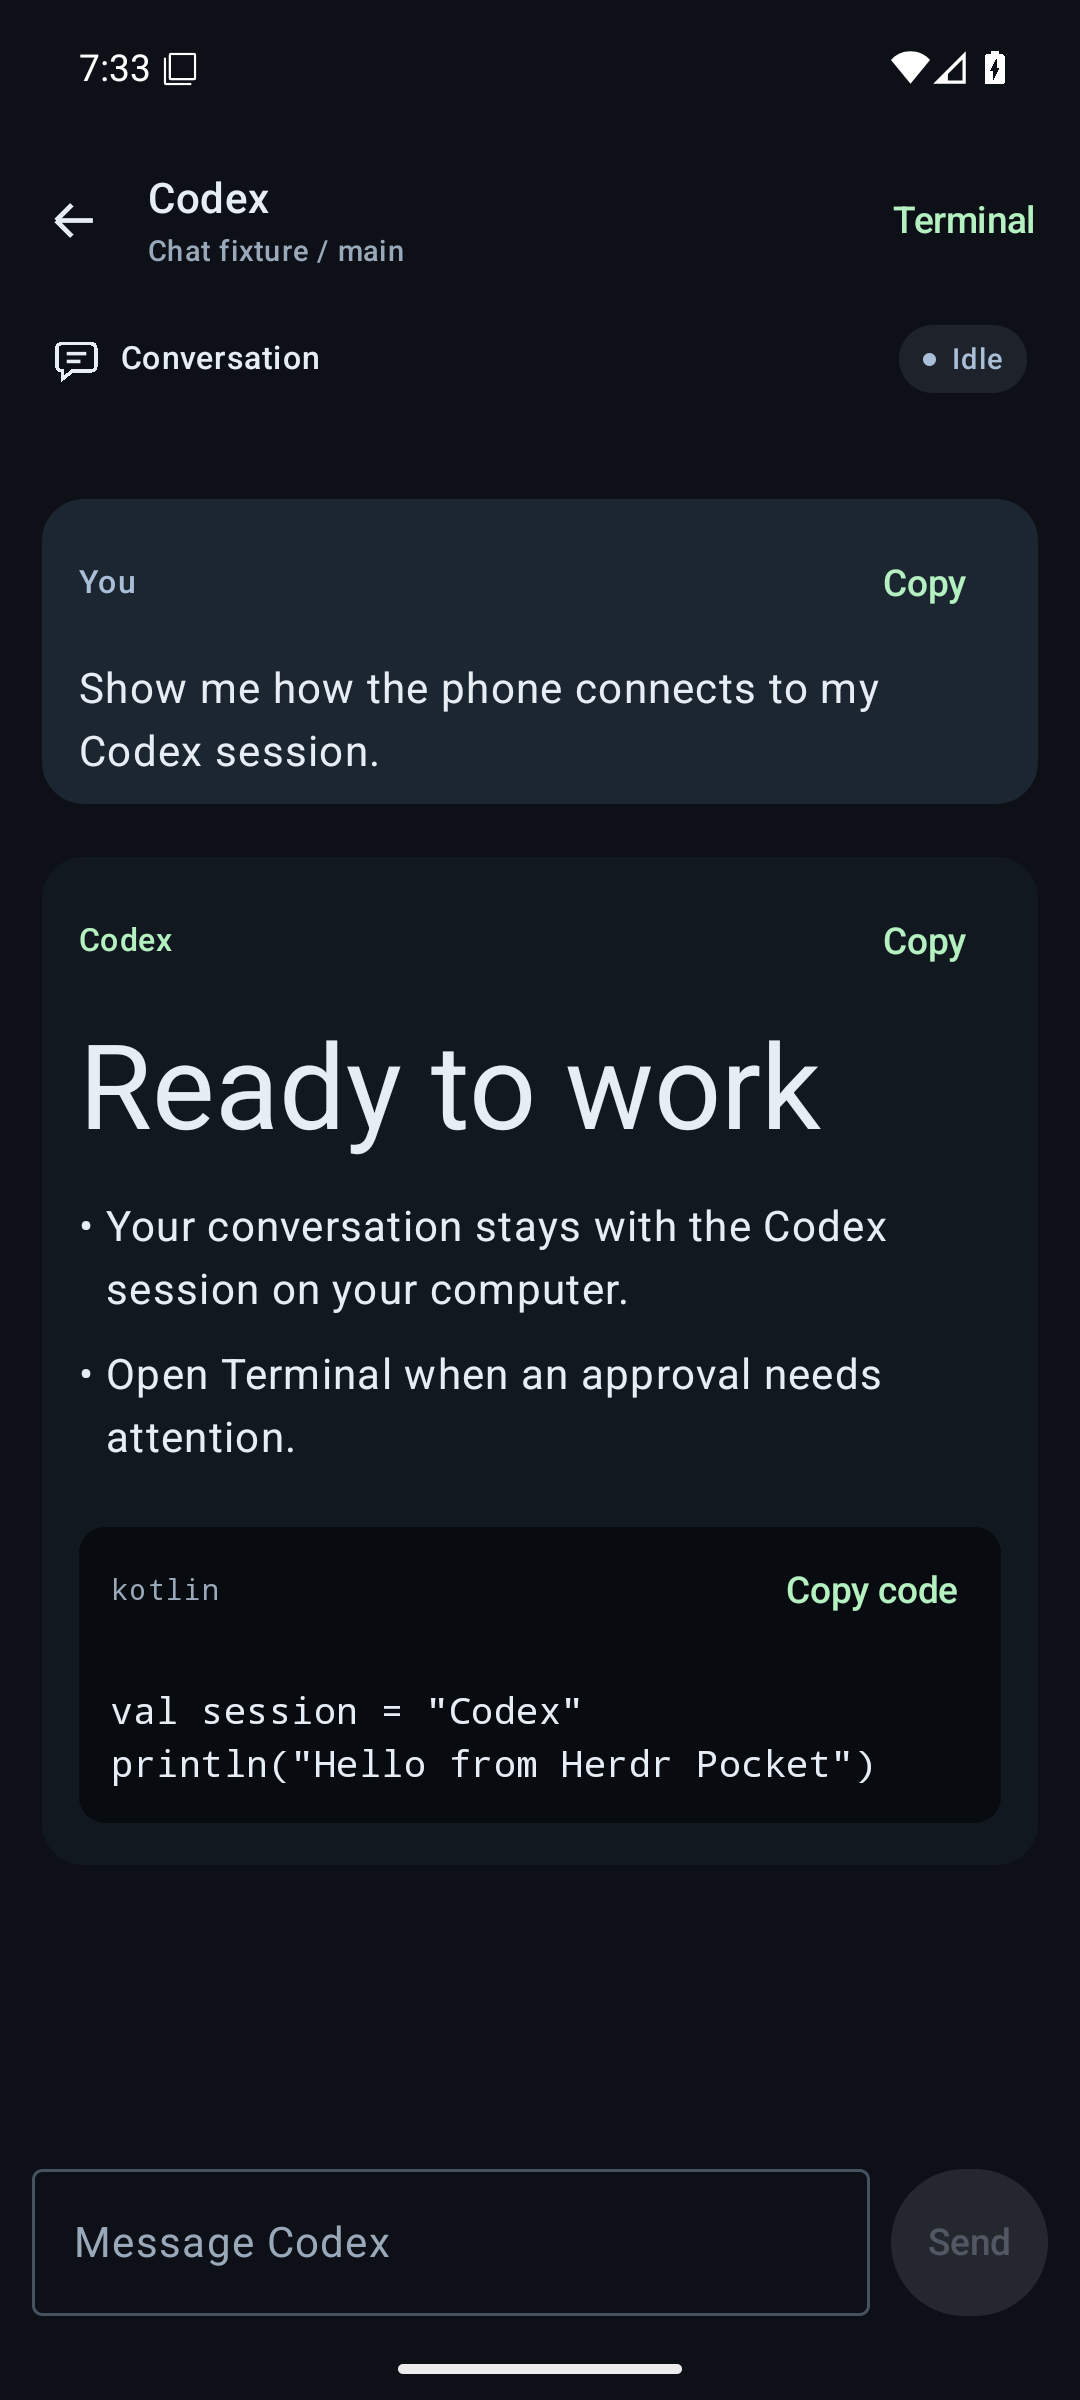
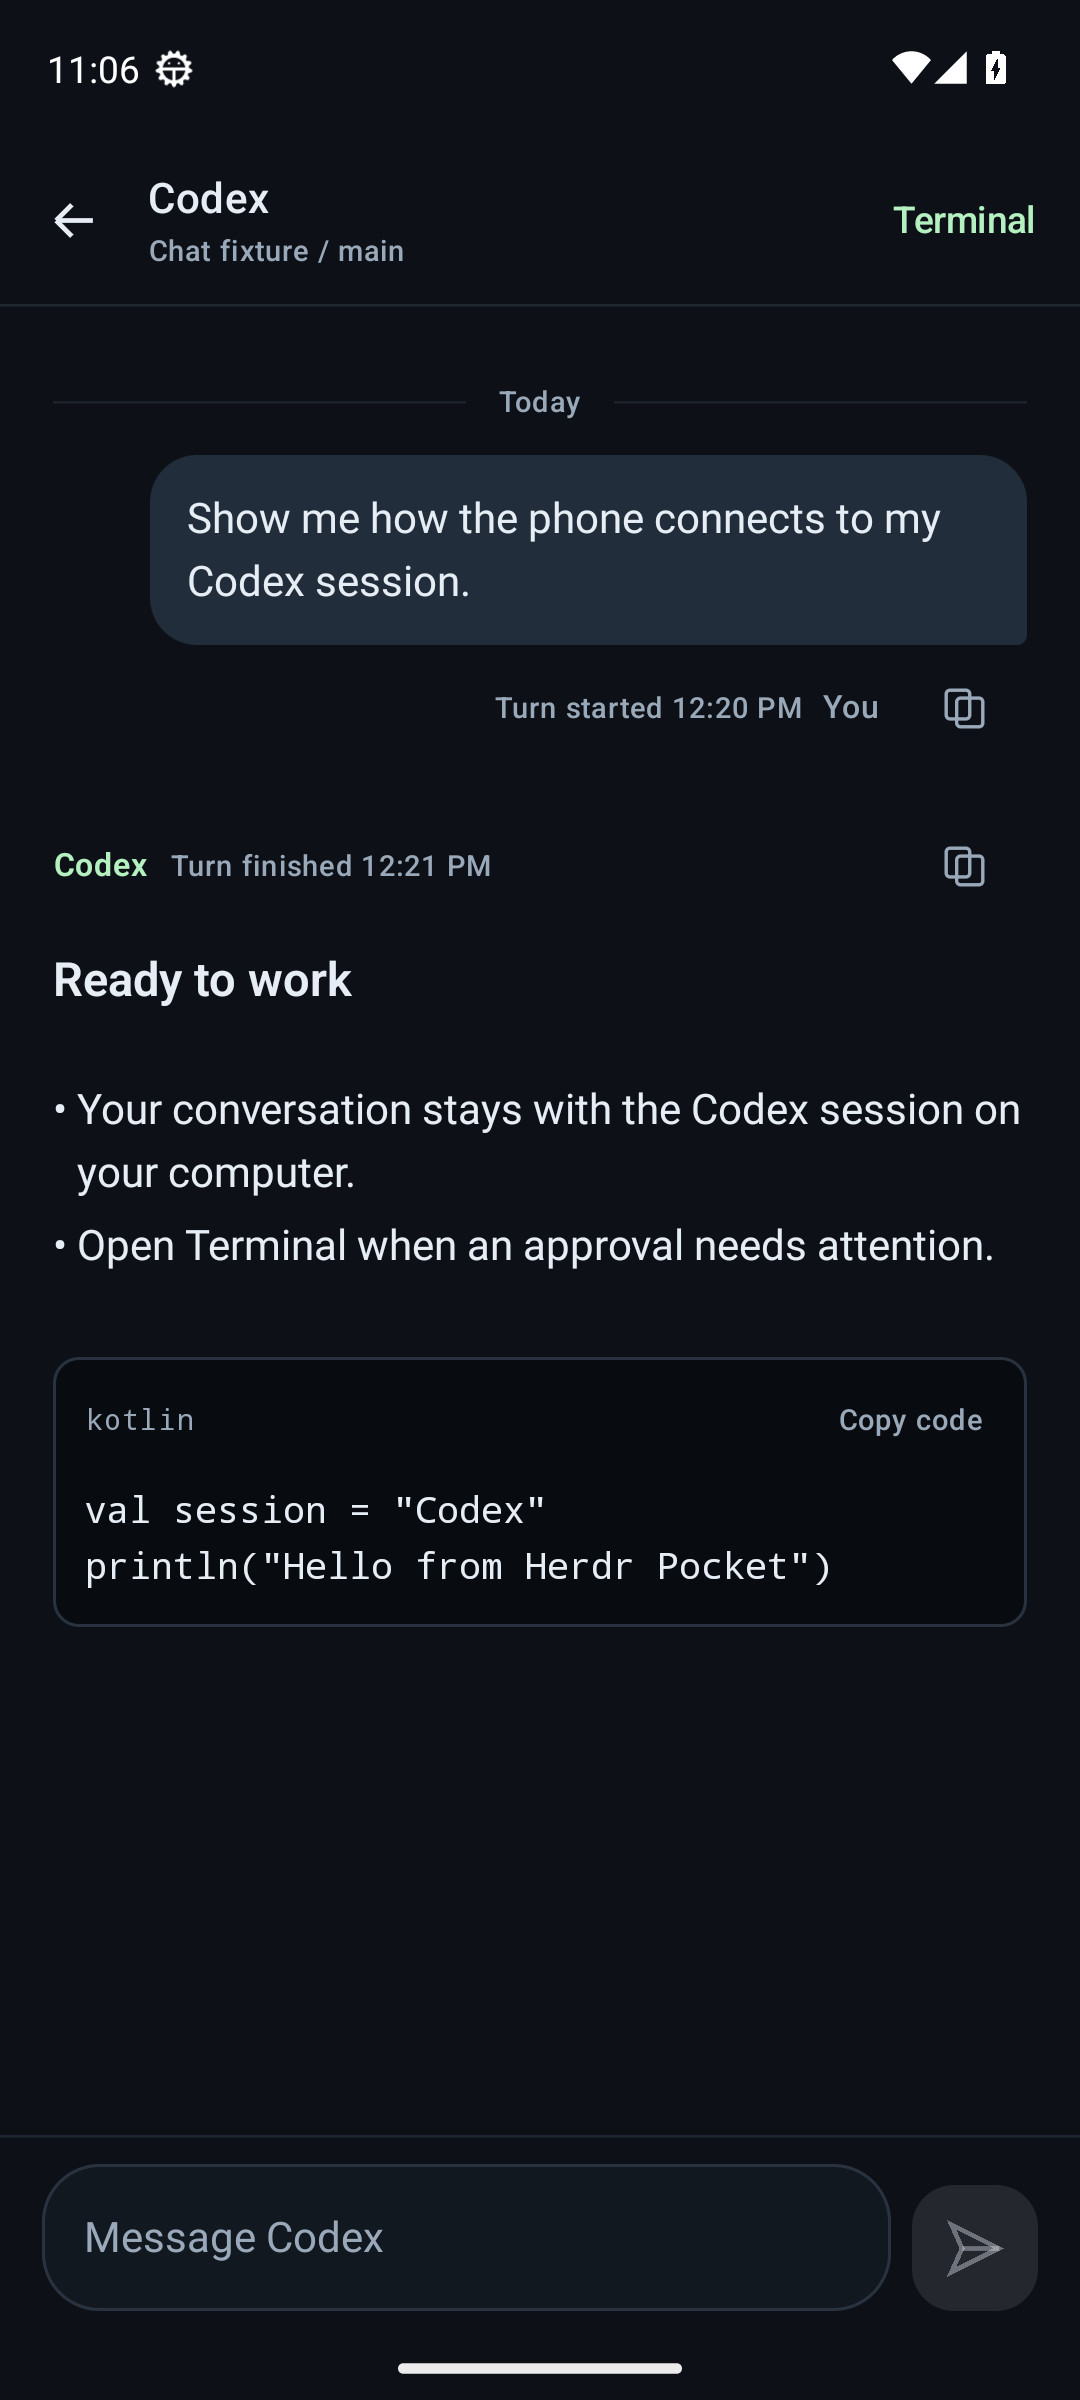
Record Android 13 validation and compare cleared draft text without spans

diff --git a/app/src/androidTest/java/dev/herdr/android/ui/TerminalControlsTest.kt b/app/src/androidTest/java/dev/herdr/android/ui/TerminalControlsTest.kt
@@ -18,7 +18,6 @@ import androidx.compose.ui.test.performClick
 import androidx.compose.ui.test.performTextInput
 import androidx.test.ext.junit.runners.AndroidJUnit4
 import androidx.compose.ui.semantics.SemanticsProperties
-import androidx.compose.ui.text.AnnotatedString
 import org.connectbot.terminal.Terminal
 import org.connectbot.terminal.TerminalEmulatorFactory
 import org.junit.Assert.assertEquals
@@ -55,7 +54,9 @@ class TerminalControlsTest {
         compose.onNodeWithTag("command-draft").assertTextEquals("Explain this repository")
         compose.onNodeWithTag("send-command").performClick()
         compose.runOnIdle { inputRevision++; sending = false }
-        compose.onNodeWithTag("command-draft").assert(SemanticsMatcher.expectValue(SemanticsProperties.EditableText, AnnotatedString("")))
+        compose.onNodeWithTag("command-draft").assert(SemanticsMatcher("The acknowledged command draft is empty") { node ->
+            SemanticsProperties.EditableText in node.config && node.config[SemanticsProperties.EditableText].text.isEmpty()
+        })
     }
 
     @Test

diff --git a/docs/validation.md b/docs/validation.md
@@ -1,54 +1,62 @@
-# Preview 0.4.0 validation
+# Preview 0.5.0 validation
 
-Validated on 2026-10-09 with unmodified Herdr 0.9.3 and Codex 0.162.0. Live Herdr checks use UUID-named sessions and temporary workspaces. Codex checks use disposable provider homes with synthetic conversations. Existing user panes were never given input, restarted, or read for conversation contents.
+Validated on 9 October 2026. This release fixes the reported Android 13 TLS shutdown crash and disabled Codex Send, and revises the native chat layout.
 
 ## Results
 
 | Check | Result | Coverage |
 | --- | --- | --- |
-| Android JVM | 107 passed | Existing chat/pairing coverage; strict snapshot identities/references; native key encoding; bounded ordered input, Unicode fragments, stale target rejection; command memory; history bounds; redacted diagnostics |
-| Android lint/build | Zero errors, 18 warnings | Minimum API 26, target API 37, native Kotlin/Compose; debug app and device test APKs |
-| Bridge offline | 282 passed, 3 optional live cases skipped | Authentication, pairing, chat, raw terminal control characters, strict pane targets, bounded real history, hostname/version readiness, management downloads/checksums, multi-instance updates, rollback, safe uninstall and purge |
-| Real Codex reader | 2 passed | Legacy/indexed saved histories and literal prompt routing without model turns |
-| Stock Herdr | 1 passed | Owned shell/observer, raw Ctrl+U and Enter execution, discarded abandoned command, real recent output |
-| Android device | 54 passed | JNI/Keystore/gallery/chat plus real native input connections, composition/key-row order, modifiers, stale connections, pinch/pan/copy, paste review, drafts/snippets, history search/copy/lifecycle, server search and full pairing transitions; three optional cases ran separately against an owned stock Herdr fixture |
-| Linux frozen package | Passed | Authenticated API, raw keys, real history envelope, Codex adapter, one-use pairing, revocation, QR helpers, version readiness and licenses |
-| Frozen management roundtrip | Passed | Checksummed staged 0.3.1→0.4.0 upgrade, installed binary execution, uninstall keeping credentials, explicit purge; only temporary files and simulated Tailscale |
-| APK packaging | Passed | Signature, same certificate, 16 KiB ZIP alignment and all eight 64-bit ELF libraries |
+| Android JVM | 118 passed | Client retirement, detached cleanup, late pooled socket return, conversation protocol, timestamps/provenance, pagination readiness, existing pairing/terminal/state tests |
+| Android lint | 0 errors, 19 warnings | Debug app, tests and dependencies |
+| Bridge offline | 308 passed | Stock Herdr manual-agent readiness, guarded submission, timestamps, pairing, authentication, terminal and host management |
+| Actual Codex 0.162 | 4 passed | Isolated legacy/paginated saved histories, official turn times present/absent, append/rollback, single mocked Herdr submission; no model calls |
+| Actual Herdr 0.9.3 | 1 passed | Owned isolated session only |
+| Android 13 device | 62 passed | Full instrumentation, including five real Conscrypt TLS regressions, chat dates/layout/working state, native terminal and three live fixture cases |
+| Frozen Linux package | Passed | Authenticated API, Codex chat, single-use pairing/revocation, QR helpers and licenses |
+| Linux/macOS CI packages | Passed | Linux x86_64, macOS arm64 and macOS x86_64 builds and packaged smoke checks |
+| Installed 005 companion | Passed | Checksummed 0.4.0→0.5.0 update; authenticated readiness; configuration and paired-device data byte-identical |
 
-These are **446 distinct automated passing cases**, plus packaged-runtime checks. Service operations in the management regression suite use temporary definitions and mocked service state; real macOS login behavior is not established by those checks.
+These are **493 distinct automated passing cases**, plus packaged-runtime and installed-host checks. The offline bridge run skips the five optional real-runtime cases; those were run separately. The final complete Android suite ran directly through AndroidJUnitRunner with an owned live fixture, and reported `OK (62 tests)` in 91 seconds. No existing user agent received test input.
 
-The ordinary device suite passed 51 cases and skipped the three fixture-dependent cases. Those three then passed separately against a real companion and an isolated stock Herdr session: host-generated QR decoding, manual connection and command delivery, and one-use invitation exchange followed by command delivery. The complete native workflow verifies that committing an IME word followed by the visible Enter button produces ordered requests to the same pane. Remote device-status queries produce no writes. Another case searches across workspaces and copies the selected non-Codex pane's output without commands or chat polling. Selection controls remain within the phone viewport; appearance changes preserve remote dimensions.
+The initial Gradle device run reported three missing-fixture JUnit assumptions as failures, plus an older empty-draft assertion that compared `AnnotatedString` presentation annotations. The assertion now checks the actual draft text. The complete fixture-equipped rerun passes. Ordinary Gradle device commands explicitly exclude the opt-in live class; see the repeat commands below.
 
-## Reported connection crash
+## Reported failures
 
-The published 0.3.0 APK completed two full post-confirmation flows against synthetic v0.2/v0.3 companion responses: invitation exchange, encrypted profile persistence, authenticated health/snapshot, and a dashboard with multiple workspaces and mixed agent states. Normal upgrade responses did not reproduce a crash.
+A real idle HTTPS socket on the API 33 emulator reproduces `NetworkOnMainThreadException` when the original synchronous `ConnectionPool.evictAll()` runs on Android's main thread. The fixed Herdr and pairing clients close those sockets from detached IO workers; the real `HerdrViewModel.pairServer` replacement path and in-flight cancellation pass with Android's network guard enabled. Retirement rejects new calls immediately, remains idempotent, and evicts connections returned after initial cleanup. Production certificate validation is unchanged. This establishes the supplied crash mechanism; it does not depend on reproducing the user's private server state.
 
-A separate duplicate-pane-ID fixture **did reproduce a post-connect crash in that published APK**, with Compose reporting an already-used list key. Version 0.4 rejects duplicate/blank IDs and inconsistent references before rendering, producing a controlled connection error while preserving the paired profile. The corresponding full app case passes. This demonstrates a concrete fixed crash condition; it does not prove the user's other server returned duplicate IDs.
+Stock Herdr 0.9.3 omits its managed-only `interactive_ready` flag for ordinary manually launched Codex. Requiring that flag for every pane kept Send disabled indefinitely. Verified unnamed canonical Codex sessions now accept messages when idle/done; named managed sessions still require explicit readiness. Working, blocked, starting, malformed, stale, or uncertain states remain guarded, with a controlled explanation. Submission still uses Herdr's foreground-runtime validation and never retries automatically.
 
-Snapshot parsing runs off the UI thread and rejects excessive JSON nesting. Private bounded diagnostics retain exception class names and sanitized stack frames, excluding messages, URLs, tokens, and invitation codes. Sanitizer and actual owner-private file checks pass; Copy/Delete is explicit and nothing uploads automatically. No intentional fatal process crash is used to test recording.
+## Chat review
+
+The [new screenshot](screenshots/chat.png) contains only synthetic fixture text. It was inspected after a full activity navigation test: compact user bubbles, assistant text on the canvas, restrained Markdown headings, readable code, accessible copy controls and an anchored composer. Working is a static caption without an animated banner.
+
+Codex 0.162 exposes saved turn start/completion times rather than exact item times. The app labels that provenance explicitly and respects the phone's time zone and 12/24-hour format. Histories without official turn times omit dates rather than borrowing file/item timestamps or the current clock. Both cases were verified against the actual app-server in isolated temporary Codex homes.
+
+Design references: [official Android JetChat](https://github.com/android/compose-samples/blob/main/Jetchat/app/src/main/java/com/example/compose/jetchat/conversation/Conversation.kt), [Material typography](https://m3.material.io/styles/typography/applying-type), and [Compose accessibility](https://developer.android.com/develop/ui/compose/accessibility/api-defaults).
 
 ## Environment and artifact
 
-- JDK 17; Kotlin 2.4.20, Gradle 9.6.0, Android Gradle Plugin 9.4.0, Android SDK 37.0/build tools 36.0.0.
-- Pixel 7 emulator, Android 16/API 36, x86_64, hardware virtualization.
-- ConnectBot Terminal 0.3.11, CameraX 1.6.2, ZXing 3.5.4; native Compose without a WebView.
-- Linux x86_64 package: glibc 2.34, portable Python 3.11.17, PyInstaller 6.22.3; no separate Python installation required.
+- Pixel 7 emulator, Android 13/API 33, x86_64, hardware virtualization.
+- JDK 17, Kotlin 2.4.20, Gradle 9.6.0, Android Gradle Plugin 9.4.0; compile/target SDK 37.0 and build tools 36.0.0; minimum Android API 26.
+- Linux x86_64 package: glibc 2.34, portable Python 3.11.17, PyInstaller 6.22.3.
+- APK: **34,420,320 bytes**, version code **6**, version name **0.5.0**; signature and 16 KiB ZIP alignment checks passed.
 
-APK: **34,678,807 bytes**, version code **5**, version name **0.4.0**. The signing certificate matches previous previews, so installation preserves phone profiles. SHA-256:
+APK SHA-256:
 
 ```text
[2 lines of base64/hex data omitted]
 ```
 
-[Native terminal](screenshots/terminal.png) · [Gallery pairing](screenshots/gallery.png) · [Codex chat](screenshots/chat.png)
[1 lines of base64/hex data omitted]
 
-The new terminal screenshot contains only a synthetic local fixture. Gallery import was also manually validated through the actual Android Photo Picker in 0.3.1; that path retains its permission-free local decoding/review flow. A camera preview startup/first-frame/Back check worked on this emulator. Physical camera/keyboard behavior and the reported other phone's exact crash remain unverified.
+Production payloads were built from `486cb9f6182292c50e2c95dbe543a59d3ac789d4`. [Android/bridge CI](https://github.com/nabil-2/herdr-android/actions/runs/37908676899) and [host package CI](https://github.com/nabil-2/herdr-android/actions/runs/37908676928) passed for that source. Later edits only correct the device test assertion, update its invocation documentation, and record these results/screenshots.
 
 ## Repeat
 
 ```sh
 ./gradlew --no-daemon :app:testDebugUnitTest :app:lintDebug :app:assembleDebug :app:assembleDebugAndroidTest
+./gradlew :app:connectedDebugAndroidTest \
+  -Pandroid.testInstrumentationRunnerArguments.notClass=dev.herdr.android.LiveBridgeDeviceTest
 bridge/.venv/bin/python -m pytest bridge/tests -q
 HERDR_INTEGRATION=1 bridge/.venv/bin/python -m pytest bridge/tests/test_live_herdr.py -q
 CODEX_INTEGRATION=1 bridge/.venv/bin/python -m pytest bridge/tests/test_live_codex_chat.py -q
@@ -56,12 +64,8 @@ bridge/.venv/bin/python scripts/build_host.py
 bridge/.venv/bin/python scripts/smoke_host_package.py artifacts/host/herdr-pocket-linux-x86_64
 ```
 
-Run ordinary instrumentation without live arguments, or follow the [isolated Android fixture](../bridge/README.md#live-android-device-fixture) to include real one-use pairing and commands in an owned stock Herdr shell. Build first, start the fixture immediately before testing, and clean up its reverse mapping/process afterward. Invitations expire after five minutes.
-
-GitHub [Android/bridge checks](https://github.com/nabil-2/herdr-android/actions/runs/37902745071) and [host packaging](https://github.com/nabil-2/herdr-android/actions/runs/37902092639) validate the source and package Linux/macOS targets. Payloads were built from production source `22828bc51d89d5503417856f8268421372e74110`; subsequent changes only make a test independent of installed Tailscale and update this validation record. Platform license bundles and all release assets are covered by `SHA256SUMS`.
+Use the [owned live Android fixture](../bridge/README.md#live-android-device-fixture) for the three optional end-to-end cases. Start it immediately before testing and clean up its process and adb reverse mapping afterward; its one-use invitation expires after five minutes.
 
 ## Practical limits
 
-Recent terminal history is bounded to 1,000 lines/64 KiB without older-page navigation. The live view projects Herdr's fixed observer grid; phone gestures do not resize the desktop. Tests establish implemented behavior, not measured parity with Termius on physical hardware. Native chat currently supports confirmed saved Codex sessions, with message refresh rather than token streaming. Inline approvals, background notifications, and direct SSH remain outside this preview.
-
-Tailscale and Herdr run independently. On this Linux host, Pocket 0.4 was installed without sudo after stopping only its companion service before atomically replacing the executable. Configuration, owner token and paired-device registry remained byte-identical; the Pocket and userspace Tailscale services are enabled and active. Private Tailscale HTTPS was already validated with the previous installation. The default Herdr session was found stopped, so authenticated companion health correctly reports a controlled 503 for unavailable Herdr. Start Herdr independently before setup/pairing. Existing Herdr state was not restarted for testing. Mac packages are exercised in CI; a physical macOS LaunchAgent/login scenario remains untested.
+Native chat supports saved Codex text conversations; tools/reasoning stay out of chat, and interactive approvals use Terminal. Completed persisted messages refresh once per second rather than streaming tokens. Old saved histories may lack official turn times. Background notifications and direct SSH are not included. The actual reported phone has not been tested directly, and physical camera/keyboard and macOS login-service behavior remain outside emulator/CI evidence. Herdr and Tailscale continue to run independently.

diff --git a/bridge/README.md b/bridge/README.md
@@ -176,4 +176,4 @@ adb reverse --remove tcp:18765
 
 The device test decodes the host QR image with the same native decoder, pastes the invitation, confirms pairing, opens a real pane, and verifies submitted shell input. Emulator image decoding does not test a physical camera. Restart the fixture for a fresh invitation before rerunning the one-use pairing test.
 
-The fixed fixture token is a public test value for this temporary loopback service. Never use it for a real profile or expose the fixture through Tailscale Serve. Ordinary tests skip live cases without the required arguments. Use `--herdr-bin /path/to/herdr` if CLI discovery fails.
+The fixed fixture token is a public test value for this temporary loopback service. Never use it for a real profile or expose the fixture through Tailscale Serve. When running ordinary device checks without a fixture, exclude the live class with `-Pandroid.testInstrumentationRunnerArguments.notClass=dev.herdr.android.LiveBridgeDeviceTest`. The current Gradle device driver can report JUnit assumption skips as failures; the live class requires the fixture arguments above. Use `--herdr-bin /path/to/herdr` if CLI discovery fails.

diff --git a/README.md b/README.md
@@ -144,7 +144,8 @@ The Gradle wrapper verifies the distribution checksum. Native Android dependenci
 With an emulator or test phone attached:
 
 ```sh
-./gradlew :app:connectedDebugAndroidTest
+./gradlew :app:connectedDebugAndroidTest \
+  -Pandroid.testInstrumentationRunnerArguments.notClass=dev.herdr.android.LiveBridgeDeviceTest
 ```
 
 For host checks, install the [source environment](bridge/README.md#install-from-source), then run:
